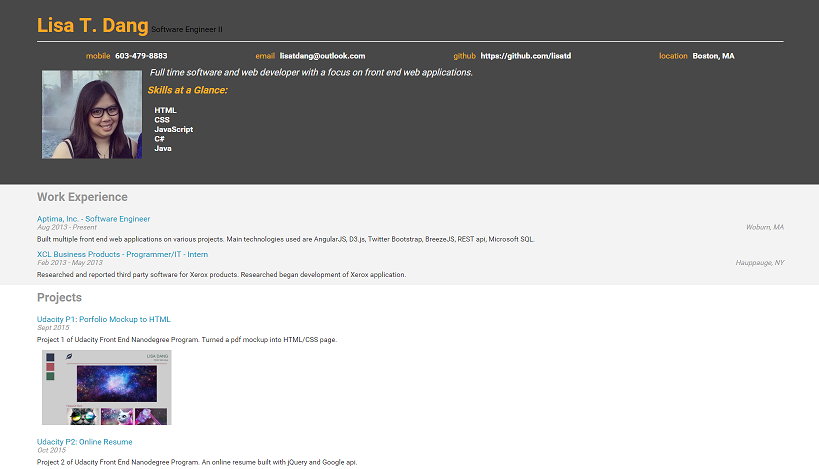
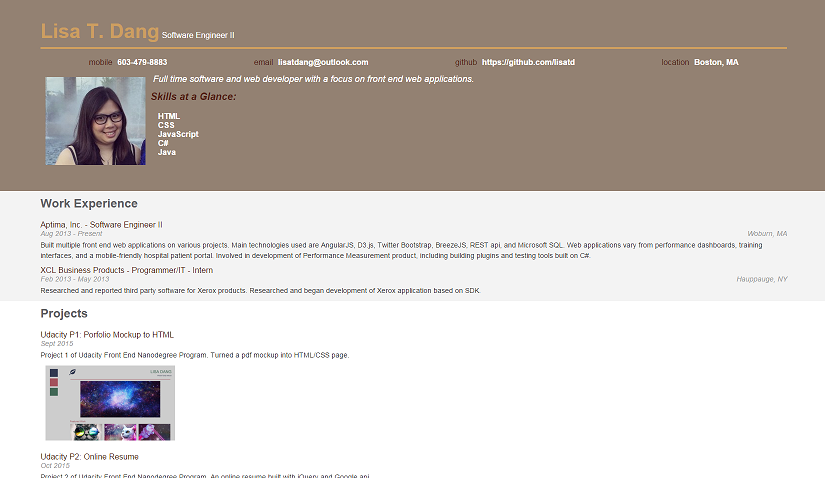
change color scheme in CSS update screencaps of project 2

diff --git a/css/style.css b/css/style.css
@@ -11,7 +11,7 @@ h5,
 h6 {
   padding:0;
   margin:0;
-  font-family: "Roboto", sans-serif;
+  font-family: Helvetica, sans-serif;
 }
 
 .clear-fix {
@@ -30,7 +30,7 @@ h6 {
 
 h1 {
   font-size: 40px;
-  color: #f5a623;
+  color: #CC9E61;
   line-height: 48px;
   display: inline;
 }
@@ -38,7 +38,7 @@ h1 {
 h2 {
   font-weight: bold;
   font-size: 24px;
-  color: #999;
+  color: #626266;
   line-height: 29px;
   padding: 10px;
 }
@@ -90,7 +90,7 @@ p {
 }
 
 a {
-  color: #1199c3;
+  color: #541F14;
   text-decoration: none;
   margin-top: 10px;
   display: block;
@@ -104,16 +104,16 @@ a {
 }
 
 #skills-h3 {
-  color: #f5ae23;
+  color: #541F14;
   display: none;
 }
 
 .orange {
-  background-color: #f5ae23;
+  background-color: #541F14;;
 }
 
 .orange-text {
-  color: #f5ae23;
+  color: #541F14;
 }
 
 .white-text {
@@ -128,12 +128,21 @@ a {
 }
 
 .dark-gray {
-  background-color: #4a4a4a;
+  background-color: #938172;
 }
 
 /* TODO: Replace with image later */
 #header {
-  background-color: #484848;
+  background-color: #938172;
+}
+
+#header > span {
+  color: #fff;
+}
+
+#header > hr {
+  color: #CC9E61;
+  border: 2px solid;
 }
 
 .flex-box {
@@ -170,6 +179,10 @@ span {
 
 #lets-connect {
   text-align: center;
+}
+
+#lets-connect h2 {
+  color: #CC9E61;
 }
 
 /* Media queries to handle various device widths */
